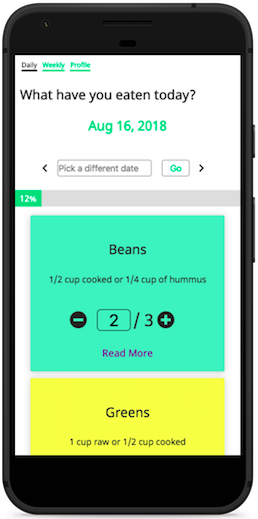
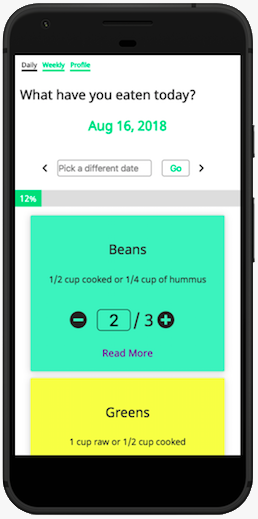
landing page final touches

Changed region(s): [[0.062, 0.9865, 0.9302, 1.0], [0.0, 0.0617, 0.031, 0.9249], [0.9612, 0.0925, 0.9922, 0.9249]]

diff --git a/resources/assets/sass/critical.scss b/resources/assets/sass/critical.scss
@@ -299,6 +299,13 @@ nav ul li a {
   }
 }
 
+@media(min-width: 1200px) {
+  #phone-pic {
+    padding-right: 100px;
+  }
+
+}
+
 @media (min-width: 768px) {
   .custom-flex-grid {
     display: flex;
@@ -309,7 +316,7 @@ nav ul li a {
 
   .custom-flex-grid .col {
     width: 24%;
-    margin-bottom: 20px;
+    margin: 20px 0 20px 0;
   }
 
   #phone-pic {
@@ -317,6 +324,7 @@ nav ul li a {
     width: auto;
     max-width: 550px;
     max-height: 550px;
+
   }
 }
 
@@ -332,7 +340,7 @@ nav ul li a {
 
 .homepage_goals {
   p {
-    font-size: 20px;
+    font-size: 24px;
     color: white;
     font-weight: bold;
   }

diff --git a/public/css/critical.css b/public/css/critical.css
@@ -324,6 +324,12 @@ nav ul li a {
   }
 }
 
+@media (min-width: 1200px) {
+  #phone-pic {
+    padding-right: 100px;
+  }
+}
+
 @media (min-width: 768px) {
   .custom-flex-grid {
     display: -webkit-box;
@@ -342,7 +348,7 @@ nav ul li a {
 
   .custom-flex-grid .col {
     width: 24%;
-    margin-bottom: 20px;
+    margin: 20px 0 20px 0;
   }
 
   #phone-pic {
@@ -365,7 +371,7 @@ nav ul li a {
 }
 
 .homepage_goals p {
-  font-size: 20px;
+  font-size: 24px;
   color: white;
   font-weight: bold;
 }

diff --git a/public/css/app.css b/public/css/app.css
@@ -329,8 +329,9 @@ h3 {
   display: -webkit-box;
   display: -ms-flexbox;
   display: flex;
-  -ms-flex-pack: distribute;
-      justify-content: space-around;
+  -webkit-box-pack: justify;
+      -ms-flex-pack: justify;
+          justify-content: space-between;
   -webkit-box-align: center;
       -ms-flex-align: center;
           align-items: center;

diff --git a/resources/assets/sass/app.scss b/resources/assets/sass/app.scss
@@ -282,7 +282,7 @@ h3 {
 
 .features-wrapper {
   display: flex;
-  justify-content: space-around;
+  justify-content: space-between;
   align-items: center;
   padding: 30px;
 }

diff --git a/resources/views/landingPage.blade.php b/resources/views/landingPage.blade.php
@@ -35,7 +35,7 @@
 
 
 <div class="homepage_container_grey">
-
+    <div class="container">
     <div class="hero">
         <h2 class="title">Eating less animal products helps you...</h2>
     </div>
@@ -45,7 +45,7 @@
             <p>Lose Weight</p>
         </div>
         <div class="col homepage_goals">
-            <p>Lower your risk of disease</p>
+            <p>Lower the risk of disease</p>
         </div>
 
         <div class="col homepage_goals">
@@ -61,6 +61,7 @@
         </div>
     </div>
     <br><br>
+    </div>
 </div>
 
 <div class="homepage_container_white">
@@ -90,11 +91,13 @@
 
 <div class="homepage_container_grey">
    <div class="container">
-       <div class="landing-page-title" style="text-align: center;">How does it work?</div>
+       <div class="hero">
+        <div class="title">How does it work?</div>
+       </div>
        <div class="features-wrapper">
            <div>
                <h2 class="landing-page-h2">&#x2705 Track</h2>
-               <h3 class="features-text">It can be tough to get enough nutrients on a Vegan diet. Vegaroo has you
+               <p class="features-text">It can be tough to get enough nutrients on a plant-based diet. Vegaroo has you
                    covered with food group tracking to make sure you get enough Protein, Iron, B12, and more.</h3>
            </div>
            <div class="photo">
@@ -104,28 +107,30 @@
    </div>
 </div>
 
-    <div class="homepage_container_white">
-        <div class="container">
-            <div class="hero">
-                <h2 class="landing-page-h2">&#x1F60B Eat</h2>
-                <h3 style="font-size: 24px; line-height: 2;">Based on your diet and goals, Vegaroo will provide personalized recipe
-                    recommendations.
-                    <br>Here are
-                    some of the most popular:</h3>
-            </div>
-            <ul class="flexible_row">
-                @foreach ($recipes as $recipe)
-                @include('partials.recipe-box')
-                @endforeach
-            </ul>
-            <div class="read-more">
-                <a href="/vegan-recipes">All Recipes<i style="margin-left: 6px;" class="fas fa-arrow-right"></i></a>
-            </div>
+<div class="homepage_container_white">
+    <div class="container">
+        <div class="hero">
+            <h2 class="landing-page-h2">&#x1F60B Eat</h2>
+            <p style="font-size: 24px; line-height: 2;">Based on your diet and goals, Vegaroo will provide
+                personalized recipe
+                recommendations.
+                <br>Here are
+                some of the most popular:</>
         </div>
-        <br>
+        <ul class="flexible_row">
+            @foreach ($recipes as $recipe)
+            @include('partials.recipe-box')
+            @endforeach
+        </ul>
+        <div class="read-more">
+            <a href="/vegan-recipes">All Recipes<i style="margin-left: 6px;" class="fas fa-arrow-right"></i></a>
+        </div>
     </div>
+    <br>
+</div>
 
 <div class="homepage_container_grey">
+    <div class="container">
     <div class="features-wrapper">
         <div>
             <h2 class="landing-page-h2">&#x1F4C8 Improve</h2>
@@ -139,6 +144,7 @@
         <a class="btn" href="/register">Get Started For Free</a>
     </div>
     <br>
+    </div>
 </div>
 
 
@@ -147,7 +153,7 @@
 @endsection
 
 <script>
-    var keywords = ["healthy", "sustainable", "ethical", "cheap"];
+    var keywords = ["healthy", "sustainable", "conscious", "cheap", "simple"];
     var colours = ["#26ce81", "#26ce81", "#26ce81", "#26ce81"];
     var count = 1;
     setInterval(function(){
